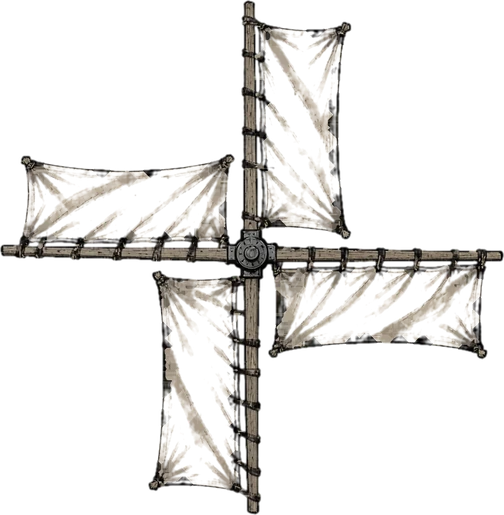
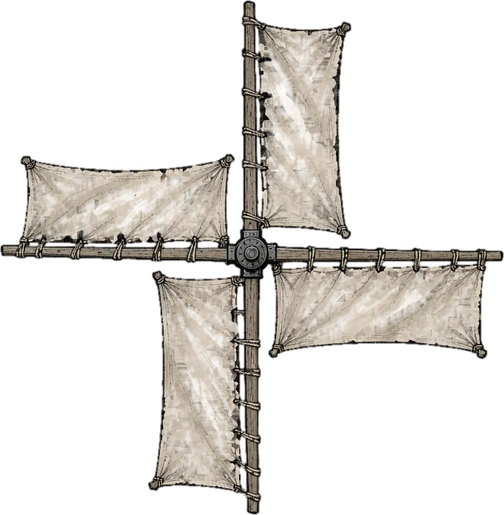
fix(iso): soft halo for every building light, lights on their windows and lamps, windmill sails re-keyed
Every light kind is a still radial halo (no rectangle). Light positions moved onto
windows, braziers and lanterns; wizard_tower lit from legendary; windmill windows under
the sails left unlit. Sails keyed with lower thresholds: the pale wooden frame was eaten
by the default key, which made the dotted dark fringe.

Changed region(s): [[0.0298, 0.0, 0.9821, 1.0]]

diff --git a/components/village/iso/BatimentMoteur.tsx b/components/village/iso/BatimentMoteur.tsx
@@ -58,7 +58,6 @@ import { BATIMENT_MOTEUR, etatBatiment, type Marque } from "./batiment";
 import type { Rect } from "./carteDemo";
 import { ArretAilesContext } from "./etatBld";
 import { useMouvementReduit } from "./fige";
-import { HorlogeContext } from "./horloge";
 import { MagieCiel, MagieSol } from "./MagieBld";
 import { PEINTS } from "./peints";
 import {
@@ -76,7 +75,6 @@ import {
   picPoussiere,
   rangsA,
   sautGardien,
-  souffleLueur,
 } from "./spectacleBatiment";
 
 export type SpectacleEnCours = { cle: string; plan: PlanSpectacle };
@@ -102,13 +100,13 @@ const TAILLE_MARQUE: Record<Marque, readonly [w: number, h: number]> = {
   blasonLumineux: [7, 11],
 };
 
-/** A light's size by kind, dp. */
-const TAILLE_LUEUR: Record<LightAnchor["kind"], readonly [w: number, h: number]> = {
-  fire: [10, 10],
-  crystal: [8, 8],
-  beam: [3, 16],
-  fenetre: [4, 6],
-  glyphe: [12, 12],
+/** A light's halo radius by kind, dp (a building's canvas is about 112 dp wide): a brazier, a lit window, a crystal. */
+const RAYON_LUEUR: Record<LightAnchor["kind"], number> = {
+  fire: 9,
+  crystal: 7,
+  beam: 8,
+  fenetre: 6,
+  glyphe: 8,
 };
 
 /** The painted sprites by data path; empty until a building's art lands. */
@@ -184,50 +182,27 @@ function MarqueClan({ marque, sprite, at }: { marque: Marque; sprite: string | n
   );
 }
 
-function Lueur({
-  kind,
-  at,
-  reduit,
-  cycles,
-}: {
-  kind: LightAnchor["kind"];
-  at: Point;
-  reduit: boolean;
-  cycles: 1 | 2 | 3;
-}) {
-  const horloge = useContext(HorlogeContext);
-  const [w, h] = TAILLE_LUEUR[kind];
-  // A fire is a warm pool of light, soft to its edge and still: no disc (the night's own pool is in AmbianceCarte).
-  if (kind === "fire") return <LueurDouce at={at} rayon={GLOW_FEU_DP} />;
-  const forme = {
-    position: "absolute" as const,
-    left: at[0] - w / 2,
-    top: at[1] - h / 2,
-    width: w,
-    height: h,
-    borderRadius: kind === "beam" || kind === "fenetre" ? 0 : w / 2,
-    backgroundColor: rawColors.isoLueur,
-  };
-  // A window is a fixed point; the others breathe on the map's one clock, which stops by itself.
-  if (!horloge || reduit || kind === "fenetre") {
-    return <View pointerEvents="none" testID={`batiment-lueur-${kind}`} style={forme} />;
-  }
-  return <LueurVivante kind={kind} forme={forme} horloge={horloge} cycles={cycles} />;
+function Lueur({ kind, at }: { kind: LightAnchor["kind"]; at: Point }) {
+  // Every light is a warm pool, soft to its edge and still: no rectangle, no disc (motion belongs to the LIFE track).
+  return <LueurDouce kind={kind} at={at} rayon={RAYON_LUEUR[kind]} />;
 }
 
-/** Radius of a fire's soft glow, dp: a brazier or a torch of the painting (a building's canvas is about 112 dp wide), not a pool on the ground. */
-const GLOW_FEU_DP = 9;
-
 /** A warm radial pool centred on a map point: isoLueur at 45 % in the heart, 0 % at the rim. */
-function LueurDouce({ at, rayon }: { at: Point; rayon: number }) {
+function LueurDouce({ kind, at, rayon }: { kind: LightAnchor["kind"]; at: Point; rayon: number }) {
   const id = `lueur-${useId().replaceAll(":", "")}`;
   return (
     <Svg
       pointerEvents="none"
-      testID="batiment-lueur-fire"
+      testID={`batiment-lueur-${kind}`}
       width={rayon * 2}
       height={rayon * 2}
-      style={{ position: "absolute", left: at[0] - rayon, top: at[1] - rayon }}
+      style={{
+        position: "absolute",
+        left: at[0] - rayon,
+        top: at[1] - rayon,
+        width: rayon * 2,
+        height: rayon * 2,
+      }}
     >
       <Defs>
         <RadialGradient id={id}>
@@ -237,29 +212,6 @@ function LueurDouce({ at, rayon }: { at: Point; rayon: number }) {
       </Defs>
       <Circle cx={rayon} cy={rayon} r={rayon} fill={`url(#${id})`} />
     </Svg>
-  );
-}
-
-function LueurVivante({
-  kind,
-  forme,
-  horloge,
-  cycles,
-}: {
-  kind: LightAnchor["kind"];
-  forme: object;
-  horloge: SharedValue<number>;
-  cycles: 1 | 2 | 3;
-}) {
-  const souffle = useAnimatedStyle(() => ({
-    transform: [{ scale: souffleLueur(horloge.get(), cycles) }],
-  }));
-  return (
-    <Animated.View
-      pointerEvents="none"
-      testID={`batiment-lueur-${kind}`}
-      style={[forme, souffle]}
-    />
   );
 }
 
@@ -741,7 +693,6 @@ function Avant({
   t,
   jeu,
   geo,
-  reduitApp,
 }: {
   etat: Etat;
   etatMarque: Etat;
@@ -751,7 +702,6 @@ function Avant({
   t: number;
   jeu: Jeu;
   geo: Geo;
-  reduitApp: boolean;
 }) {
   const { px } = geo;
   return (
@@ -774,13 +724,7 @@ function Avant({
         />
       ) : null}
       {etat.lights.map((l) => (
-        <Lueur
-          key={`${l.kind}-${l.fromRank}`}
-          kind={l.kind}
-          at={px(l.at)}
-          reduit={reduitApp}
-          cycles={l.cycles ?? 2}
-        />
+        <Lueur key={`${l.kind}-${l.at.join()}`} kind={l.kind} at={px(l.at)} />
       ))}
     </>
   );
@@ -884,7 +828,6 @@ function Moteur({
             t={t}
             jeu={jeu}
             geo={geo}
-            reduitApp={reduitApp}
           />
         </Animated.View>
       )}

diff --git a/components/village/iso/peints/windmill.ts b/components/village/iso/peints/windmill.ts
@@ -178,13 +178,13 @@ export const windmill: Omit<PeintBld, "donnees"> = {
     solid: {
       jour: {
         image: require("@/assets/images/village/iso/peints/windmill/elements/sails_solid.jour.webp"),
-        anchor: [253, 259],
+        anchor: [252, 260],
         size: [504, 515],
         ombre: [],
       },
       nuit: {
         image: require("@/assets/images/village/iso/peints/windmill/elements/sails_solid.nuit.webp"),
-        anchor: [253, 259],
+        anchor: [252, 260],
         size: [504, 515],
         ombre: [],
       },
@@ -193,40 +193,40 @@ export const windmill: Omit<PeintBld, "donnees"> = {
       jour: {
         image: require("@/assets/images/village/iso/peints/windmill/elements/sails_grand.jour.webp"),
         anchor: [345, 355],
-        size: [688, 704],
+        size: [688, 705],
         ombre: [],
       },
       nuit: {
         image: require("@/assets/images/village/iso/peints/windmill/elements/sails_grand.nuit.webp"),
         anchor: [345, 355],
-        size: [688, 704],
+        size: [688, 705],
         ombre: [],
       },
     },
     legendary: {
       jour: {
         image: require("@/assets/images/village/iso/peints/windmill/elements/sails_legendary.jour.webp"),
-        anchor: [442, 450],
-        size: [885, 893],
+        anchor: [439, 425],
+        size: [885, 842],
         ombre: [],
       },
       nuit: {
         image: require("@/assets/images/village/iso/peints/windmill/elements/sails_legendary.nuit.webp"),
-        anchor: [442, 450],
-        size: [885, 893],
+        anchor: [439, 425],
+        size: [885, 842],
         ombre: [],
       },
     },
     mythic: {
       jour: {
         image: require("@/assets/images/village/iso/peints/windmill/elements/sails_mythic.jour.webp"),
-        anchor: [569, 550],
+        anchor: [568, 551],
         size: [1135, 1101],
         ombre: [],
       },
       nuit: {
         image: require("@/assets/images/village/iso/peints/windmill/elements/sails_mythic.nuit.webp"),
-        anchor: [569, 550],
+        anchor: [568, 551],
         size: [1135, 1101],
         ombre: [],
       },

diff --git a/constants/buildings/wizard_tower.ts b/constants/buildings/wizard_tower.ts
@@ -11,14 +11,18 @@ const main = {
 
 // What the painting lights at night (kind, canvas px, first rank): a window, a lantern, a brazier, a fire, a beam.
 const lights: BuildingData["lights"] = [
-  { kind: "fenetre", at: [378, 376], fromRank: 10 },
+  { kind: "fenetre", at: [377, 373], fromRank: 10 },
   { kind: "fenetre", at: [458, 372], fromRank: 10 },
-  { kind: "fenetre", at: [380, 460], fromRank: 10 },
-  { kind: "fenetre", at: [457, 458], fromRank: 10 },
-  { kind: "fenetre", at: [418, 542], fromRank: 10 },
-  { kind: "fenetre", at: [380, 637], fromRank: 10 },
+  { kind: "fenetre", at: [380, 463], fromRank: 10 },
+  { kind: "fenetre", at: [453, 462], fromRank: 10 },
+  { kind: "fenetre", at: [377, 540], fromRank: 7 },
+  { kind: "fenetre", at: [418, 545], fromRank: 7 },
+  { kind: "fenetre", at: [459, 538], fromRank: 7 },
+  { kind: "fenetre", at: [378, 639], fromRank: 7 },
+  { kind: "fenetre", at: [418, 645], fromRank: 7 },
+  { kind: "fenetre", at: [458, 639], fromRank: 7 },
   { kind: "fenetre", at: [418, 805], fromRank: 10 },
-  { kind: "fenetre", at: [557, 670], fromRank: 10 },
+  { kind: "fenetre", at: [557, 675], fromRank: 7 },
 ];
 
 // What will move later, on its painted object (canvas px): posed, drawn by nothing yet.

diff --git a/constants/buildings/armory.ts b/constants/buildings/armory.ts
@@ -12,15 +12,15 @@ const main = {
 // What the painting lights at night (kind, canvas px, first rank): a window, a lantern, a brazier, a fire, a beam.
 const lights: BuildingData["lights"] = [
   { kind: "fenetre", at: [487, 318], fromRank: 3, fromBase: 10 },
-  { kind: "fenetre", at: [583, 325], fromRank: 3, fromBase: 10 },
-  { kind: "fenetre", at: [290, 565], fromRank: 3, fromBase: 10 },
-  { kind: "fenetre", at: [680, 560], fromRank: 3, fromBase: 10 },
-  { kind: "fenetre", at: [315, 770], fromRank: 3, fromBase: 10 },
+  { kind: "fenetre", at: [583, 321], fromRank: 3, fromBase: 10 },
+  { kind: "fenetre", at: [284, 568], fromRank: 3, fromBase: 10 },
+  { kind: "fenetre", at: [682, 565], fromRank: 3, fromBase: 10 },
+  { kind: "fenetre", at: [316, 766], fromRank: 3, fromBase: 10 },
 ];
 
 // What will move later, on its painted object (canvas px): posed, drawn by nothing yet.
 const ancres: BuildingData["ancres"] = [
-  { kind: "fenetre", at: [680, 560], fromRank: 3, fromBase: 10 },
+  { kind: "fenetre", at: [682, 565], fromRank: 3, fromBase: 10 },
   { kind: "magic", at: [550, 250], fromRank: 3, fromBase: 10 },
 ];
 // hand:end

diff --git a/constants/buildings/well.ts b/constants/buildings/well.ts
@@ -11,13 +11,13 @@ const main = {
 
 // What the painting lights at night (kind, canvas px, first rank): a window, a lantern, a brazier, a fire, a beam.
 const lights: BuildingData["lights"] = [
-  { kind: "fenetre", at: [420, 331], fromRank: 10 },
-  { kind: "fenetre", at: [426, 556], fromRank: 10 },
-  { kind: "fenetre", at: [770, 486], fromRank: 10 },
-  { kind: "fenetre", at: [694, 680], fromRank: 10 },
-  { kind: "fenetre", at: [369, 600], fromRank: 10 },
+  { kind: "fenetre", at: [418, 332], fromRank: 10 },
+  { kind: "fenetre", at: [422, 560], fromRank: 10 },
+  { kind: "fenetre", at: [770, 493], fromRank: 10 },
+  { kind: "fenetre", at: [692, 683], fromRank: 10 },
+  { kind: "fenetre", at: [370, 603], fromRank: 10 },
   { kind: "fenetre", at: [133, 722], fromRank: 10 },
-  { kind: "fenetre", at: [444, 911], fromRank: 10 },
+  { kind: "fenetre", at: [443, 908], fromRank: 10 },
   { kind: "crystal", at: [283, 322], fromRank: 10 },
 ];
 

diff --git a/constants/buildings/windmill.ts b/constants/buildings/windmill.ts
@@ -16,12 +16,12 @@ const main = {
 
 // What the painting lights at night (kind, canvas px, first rank): a window, a lantern, a brazier, a fire, a beam.
 const lights: BuildingData["lights"] = [
-  { kind: "fenetre", at: [403, 439], fromRank: 10 },
-  { kind: "fenetre", at: [528, 437], fromRank: 10 },
+  // The two windows under the sails (403,439) and (528,437) are left unlit: the turning sails cover them.
   { kind: "fenetre", at: [548, 612], fromRank: 10 },
-  { kind: "fenetre", at: [524, 822], fromRank: 10 },
-  { kind: "fenetre", at: [144, 833], fromRank: 10 },
-  { kind: "fenetre", at: [236, 850], fromRank: 10 },
+  { kind: "fenetre", at: [532, 825], fromRank: 10 },
+  { kind: "fenetre", at: [457, 825], fromRank: 10 },
+  { kind: "fenetre", at: [142, 835], fromRank: 10 },
+  { kind: "fenetre", at: [237, 847], fromRank: 10 },
 ];
 
 // What will move later, on its painted object (canvas px): posed, drawn by nothing yet.

diff --git a/constants/buildings/champion_arena.ts b/constants/buildings/champion_arena.ts
@@ -11,11 +11,11 @@ const main = {
 
 // What the painting lights at night (kind, canvas px, first rank): a window, a lantern, a brazier, a fire, a beam.
 const lights: BuildingData["lights"] = [
-  { kind: "beam", at: [452, 660], fromRank: 5 },
-  { kind: "fenetre", at: [170, 565], fromRank: 5 },
-  { kind: "fenetre", at: [185, 660], fromRank: 5 },
-  { kind: "fenetre", at: [125, 705], fromRank: 5 },
-  { kind: "fenetre", at: [335, 660], fromRank: 5 },
+  { kind: "beam", at: [446, 790], fromRank: 5 },
+  { kind: "fenetre", at: [175, 556], fromRank: 5 },
+  { kind: "fenetre", at: [179, 649], fromRank: 5 },
+  { kind: "fenetre", at: [124, 708], fromRank: 5 },
+  { kind: "fenetre", at: [330, 660], fromRank: 5 },
 ];
 
 // What will move later, on its painted object (canvas px): posed, drawn by nothing yet.

diff --git a/constants/buildings/forge.ts b/constants/buildings/forge.ts
@@ -11,9 +11,9 @@ const main = {
 
 // What the painting lights at night (kind, canvas px, first rank): a window, a lantern, a brazier, a fire, a beam.
 const lights: BuildingData["lights"] = [
-  { kind: "fire", at: [350, 818], fromRank: 5 },
-  { kind: "fire", at: [463, 820], fromRank: 7 },
-  { kind: "fire", at: [443, 175], fromRank: 10 },
+  { kind: "fire", at: [338, 808], fromRank: 5 },
+  { kind: "fire", at: [455, 808], fromRank: 7 },
+  { kind: "fire", at: [445, 180], fromRank: 10 },
 ];
 
 // What will move later, on its painted object (canvas px): posed, drawn by nothing yet.

diff --git a/constants/buildings/castle_wall.ts b/constants/buildings/castle_wall.ts
@@ -11,8 +11,8 @@ const main = {
 
 // What the painting lights at night (kind, canvas px, first rank): a window, a lantern, a brazier, a fire, a beam.
 const lights: BuildingData["lights"] = [
-  { kind: "fire", at: [435, 710], fromRank: 3, fromBase: 10 },
-  { kind: "fire", at: [615, 595], fromRank: 3, fromBase: 10 },
+  { kind: "fire", at: [433, 697], fromRank: 3, fromBase: 10 },
+  { kind: "fire", at: [615, 583], fromRank: 3, fromBase: 10 },
 ];
 
 // What will move later, on its painted object (canvas px): posed, drawn by nothing yet.

diff --git a/constants/buildings/dragon_lair.ts b/constants/buildings/dragon_lair.ts
@@ -10,7 +10,7 @@ const main = {
 } as const;
 
 // What the painting lights at night (kind, canvas px, first rank): a window, a lantern, a brazier, a fire, a beam.
-const lights: BuildingData["lights"] = [{ kind: "fire", at: [415, 925], fromRank: 5 }];
+const lights: BuildingData["lights"] = [{ kind: "fire", at: [440, 890], fromRank: 5 }];
 
 // What will move later, on its painted object (canvas px): posed, drawn by nothing yet.
 const ancres: BuildingData["ancres"] = [{ kind: "magic", at: [610, 470], fromRank: 5 }];

diff --git a/components/village/iso/empreinteSprites.ts b/components/village/iso/empreinteSprites.ts
@@ -1,2 +1,2 @@
 // Generated by scripts/iso/empreinte-sprites.js, do not edit.
-export const EMPREINTE_SPRITES = "8d3825571760d5f0";
+export const EMPREINTE_SPRITES = "d3099f16b1faab12";

diff --git a/scripts/bld/final.py b/scripts/bld/final.py
@@ -288,7 +288,8 @@ def elements(code, rekey=False):
     bad = []
     for o, _, _ in jobs:
         if o.exists():
-            rgba = key(Image.open(o))
+            # the sails' pale wooden frame sits near the off-white paper: the default thresholds ate it into a dotted dark fringe
+            rgba = key(Image.open(o), 25, 70) if "sails" in o.name else key(Image.open(o))
             rgba.crop(rgba.getbbox()).save(o.with_name(o.name.replace(".raw", "")))
             if (n := green_edge(rgba)) > 20:
                 bad.append(f"{o.name.split('.')[0]}: {n} green edge pixels")
